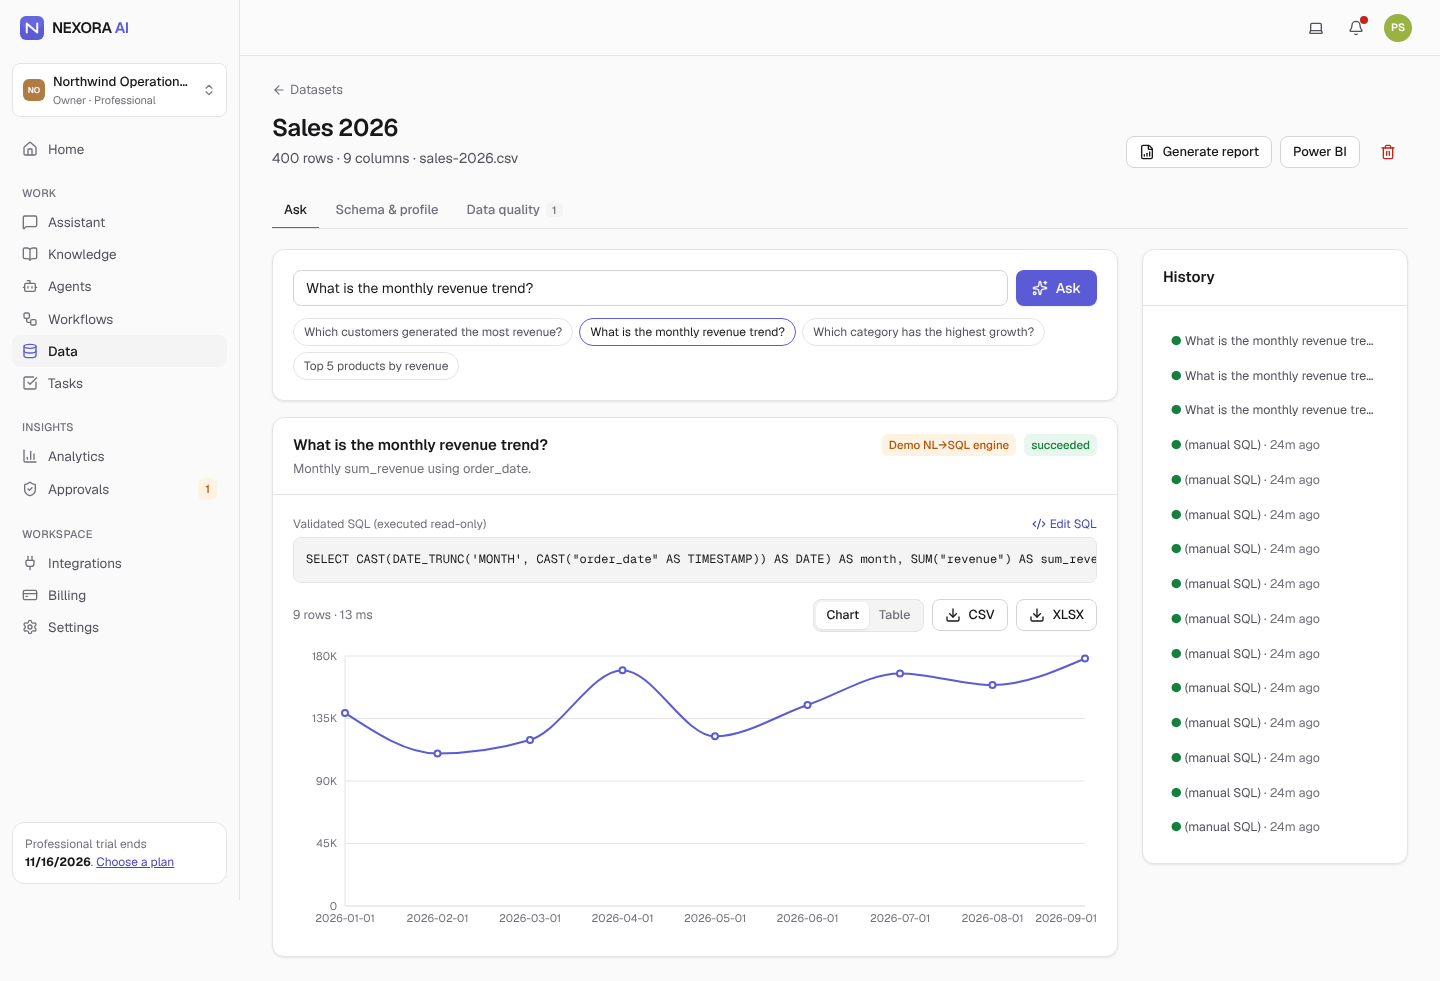
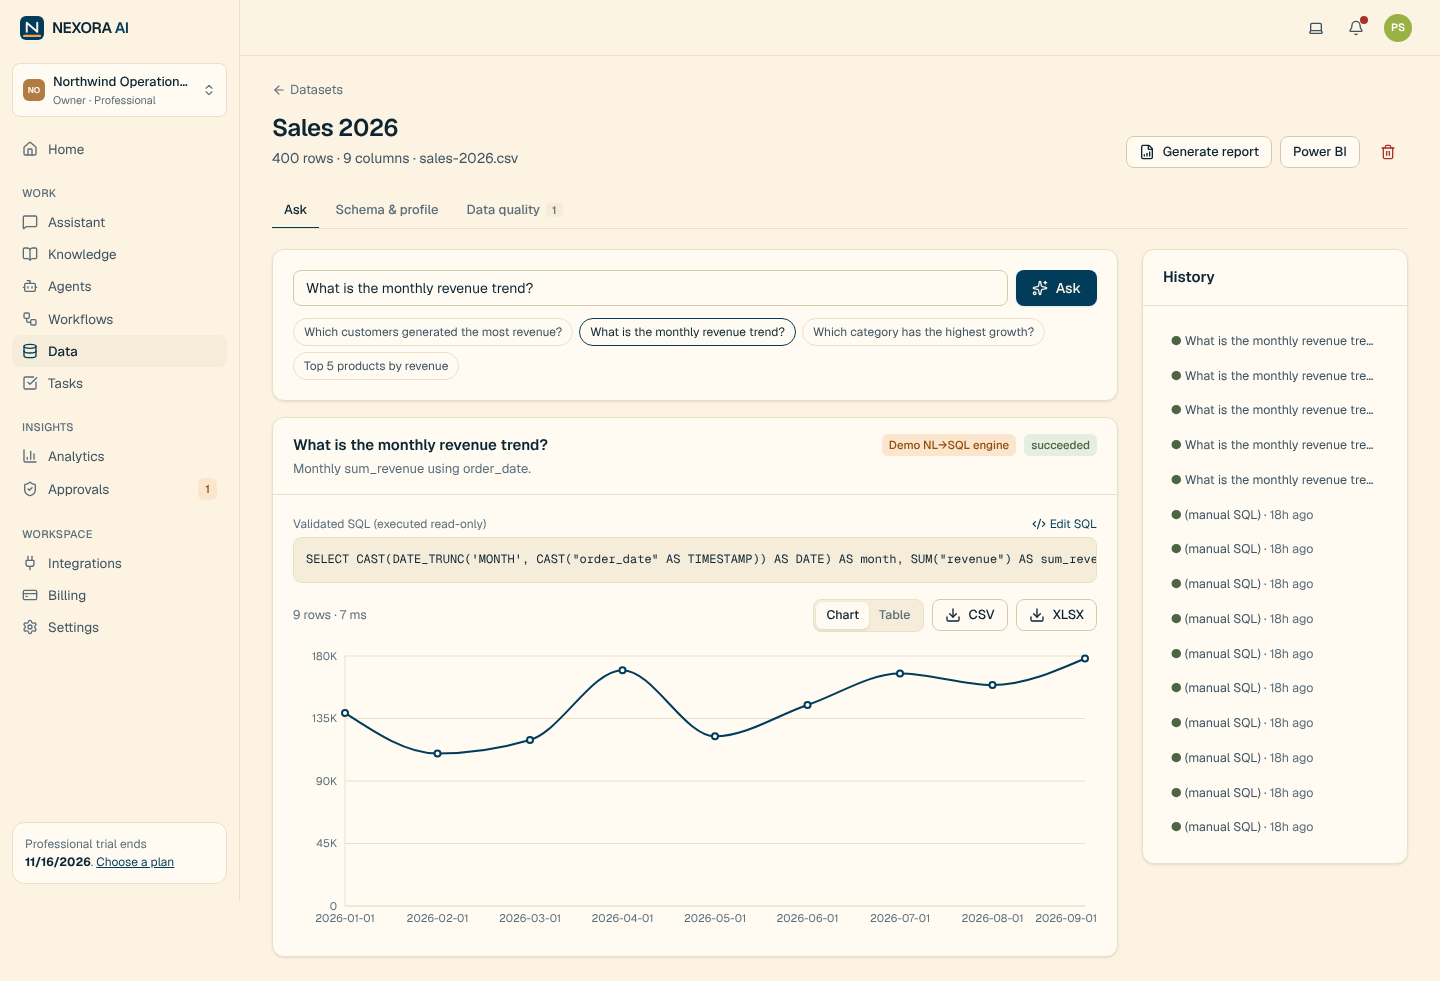
Apply Midnight / Lionsmane / Celeste / Herb / Marigold colour theme
Palette mapped onto design tokens for light and dark modes; text pairs
checked to WCAG AA; logo, browser theme colour and chart series updated;
screenshots refreshed.

Claude-Session: https://claude.ai/code/session_01NZou7f3mmoyX3FssSbuoVx

diff --git a/frontend/src/app/globals.css b/frontend/src/app/globals.css
@@ -3,68 +3,70 @@
 @custom-variant dark (&:where(.dark, .dark *));
 
 /* ---------- NEXORA design tokens ---------- */
+/* Palette: Midnight #013D5A · Lionsmane #FCF3E3 · Celeste #BDD3CE · Herb #708C69 · Marigold #F4A258
+   Text/background pairs are checked to WCAG AA (>= 4.5:1). */
 :root {
-  --canvas: #fafafa;
-  --panel: #ffffff;
-  --panel-2: #f4f4f5;
-  --line: #e4e4e7;
-  --line-strong: #d4d4d8;
-  --fg: #18181b;
-  --muted: #52525b;
-  --subtle: #71717a;
-  --brand: #5b5bd6;
-  --brand-hover: #4c4cc4;
-  --brand-fg: #ffffff;
-  --brand-soft: #eef0ff;
-  --brand-text: #4646b8;
-  --success: #15803d;
-  --success-soft: #e8f7ee;
-  --warning: #b45309;
-  --warning-soft: #fdf3e2;
-  --danger: #c2261d;
-  --danger-soft: #fdecea;
-  --info: #0369a1;
-  --info-soft: #e6f3fb;
-  --ring: #5b5bd666;
-  --shadow: 0 1px 2px rgb(0 0 0 / 0.04), 0 1px 3px rgb(0 0 0 / 0.06);
-  --shadow-lg: 0 10px 30px -10px rgb(0 0 0 / 0.18);
-  --chart-1: #5b5bd6;
-  --chart-2: #0ea5a4;
-  --chart-3: #e8a33d;
-  --chart-4: #d9487a;
-  --chart-5: #64748b;
+  --canvas: #fcf3e3;        /* Lionsmane */
+  --panel: #fffbf3;
+  --panel-2: #f6ecda;
+  --line: #ebdfc8;
+  --line-strong: #d9c8a9;
+  --fg: #0b2533;
+  --muted: #3d5361;
+  --subtle: #5a6e7a;
+  --brand: #013d5a;         /* Midnight */
+  --brand-hover: #002c42;
+  --brand-fg: #fcf3e3;
+  --brand-soft: #e2edea;    /* Celeste tint */
+  --brand-text: #013d5a;
+  --success: #4a6644;       /* Herb, darkened for text */
+  --success-soft: #e6ede1;
+  --warning: #8f4d0e;       /* Marigold, darkened for text */
+  --warning-soft: #fbe5cc;
+  --danger: #a8322a;
+  --danger-soft: #f9e1dc;
+  --info: #2c6670;
+  --info-soft: #e2edea;
+  --ring: #013d5a55;
+  --shadow: 0 1px 2px rgb(1 61 90 / 0.05), 0 1px 3px rgb(1 61 90 / 0.07);
+  --shadow-lg: 0 10px 30px -10px rgb(1 61 90 / 0.22);
+  --chart-1: #013d5a;       /* Midnight */
+  --chart-2: #708c69;       /* Herb */
+  --chart-3: #d9863a;       /* Marigold (deepened for contrast on cream) */
+  --chart-4: #5e9187;       /* Celeste (deepened) */
+  --chart-5: #8a8f86;
   color-scheme: light;
 }
 .dark {
-  --canvas: #0b0b0f;
-  --panel: #131318;
-  --panel-2: #1b1b22;
-  --line: #26262f;
-  --line-strong: #34343f;
-  --fg: #ededf0;
-  --muted: #a1a1aa;
-  --subtle: #8b8b96;
-  --brand: #7c7cf0;
-  --brand-hover: #8f8ff5;
-  --brand-fg: #0b0b0f;
-  --brand-soft: #1e1e3a;
-  --brand-text: #a9a9ff;
-  --success: #4ade80;
-  --success-soft: #0f2a1a;
-  --warning: #fbbf24;
-  --warning-soft: #2b2110;
-  --danger: #f87171;
-  --danger-soft: #2f1414;
-  --info: #38bdf8;
-  --info-soft: #0c2230;
-  --ring: #7c7cf066;
+  --canvas: #011f2e;        /* deep Midnight */
+  --panel: #032a3d;
+  --panel-2: #06344a;
+  --line: #0d4560;
+  --line-strong: #185672;
+  --fg: #fcf3e3;            /* Lionsmane */
+  --muted: #c5d4d1;
+  --subtle: #93abaf;
+  --brand: #bdd3ce;         /* Celeste */
+  --brand-hover: #d2e2de;
+  --brand-fg: #013d5a;
+  --brand-soft: #0a4660;
+  --brand-text: #bdd3ce;
+  --success: #a9c4a1;
+  --success-soft: #1a3324;
+  --warning: #f4a258;       /* Marigold */
+  --warning-soft: #3a2a14;
+  --danger: #f2958b;
+  --danger-soft: #3a1a18;
+  --info: #bdd3ce;
+  --info-soft: #0a4660;
+  --ring: #bdd3ce66;
   --shadow: 0 1px 2px rgb(0 0 0 / 0.4);
   --shadow-lg: 0 12px 32px -12px rgb(0 0 0 / 0.7);
-  --chart-1: #8b8bf5;
-  --chart-2: #2dd4bf;
-  --chart-3: #f2b64f;
-  --chart-4: #f06b9a;
-  --chart-5: #94a3b8;
+  --chart-1: #bdd3ce;
+  --chart-2: #9db896;
+  --chart-3: #f4a258;
+  --chart-4: #7fb3c9;
+  --chart-5: #c5d4d1;
   color-scheme: dark;
 }
 

diff --git a/frontend/src/components/app/logo.tsx b/frontend/src/components/app/logo.tsx
@@ -2,9 +2,9 @@ export function Logo({ className = "", withText = true }: { className?: string; 
   return (
     <span className={`inline-flex items-center gap-2 ${className}`}>
       <svg width="24" height="24" viewBox="0 0 32 32" aria-hidden>
-        <rect width="32" height="32" rx="8" fill="#5b5bd6" />
-        <rect width="32" height="16" rx="8" fill="#7c7cf0" opacity="0.35" />
-        <path d="M9 22V10l14 12V10" stroke="white" strokeWidth="2.6" fill="none" strokeLinecap="round" strokeLinejoin="round" />
+        <rect width="32" height="32" rx="8" fill="#013d5a" />
+        <rect x="4" y="25" width="24" height="3" rx="1.5" fill="#f4a258" />
+        <path d="M9 21V9l14 12V9" stroke="#fcf3e3" strokeWidth="2.6" fill="none" strokeLinecap="round" strokeLinejoin="round" />
       </svg>
       {withText && <span className="text-[15px] font-semibold tracking-tight">NEXORA<span className="text-brand"> AI</span></span>}
     </span>

diff --git a/frontend/src/app/layout.tsx b/frontend/src/app/layout.tsx
@@ -9,7 +9,7 @@ export const metadata: Metadata = {
   title: { default: "NEXORA AI — One Intelligent Workspace", template: "%s · NEXORA AI" },
   description: "AI business operations & workflow intelligence: knowledge, agents, automation and analytics in one workspace.",
 };
-export const viewport: Viewport = { width: "device-width", initialScale: 1, themeColor: [{ media: "(prefers-color-scheme: dark)", color: "#0b0b0f" }, { color: "#fafafa" }] };
+export const viewport: Viewport = { width: "device-width", initialScale: 1, themeColor: [{ media: "(prefers-color-scheme: dark)", color: "#011f2e" }, { color: "#fcf3e3" }] };
 
 export default function RootLayout({ children }: { children: React.ReactNode }) {
   return (
